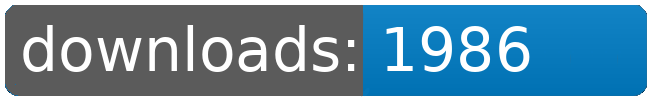
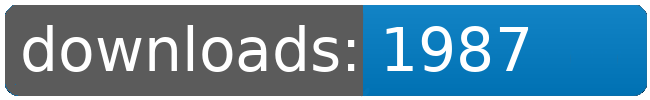
dl log written

Changed region(s): [[0.7692, 0.24, 0.8308, 0.72]]

diff --git a/README.md b/README.md
@@ -21,8 +21,8 @@
 		<td>1925</td>
 		<td>1950</td>
 		<td>1976</td>
-		<td>1986</td>
-		<td>+ 10</td>
+		<td>1987</td>
+		<td>+ 11</td>
 	</tr>
 	<tr>
 		<td>Factory.Outlets</td>
@@ -109,8 +109,8 @@
 		<td></td>
 		<td></td>
 		<td></td>
-		<td>16242</td>
-		<td>38</td>
+		<td>16243</td>
+		<td>39</td>
 	</tr>
 </table>
 </sub></sup>
@@ -157,8 +157,8 @@
 		<td>1925</td>
 		<td>1950</td>
 		<td>1976</td>
-		<td>1986</td>
-		<td>+ 10</td>
+		<td>1987</td>
+		<td>+ 11</td>
 	</tr>
 	<tr>
 		<td>Korunak.Defense.Drones</td>
@@ -223,8 +223,8 @@
 		<td></td>
 		<td></td>
 		<td></td>
-		<td>16242</td>
-		<td>38</td>
+		<td>16243</td>
+		<td>39</td>
 	</tr>
 </table>
 </sub></sup>
